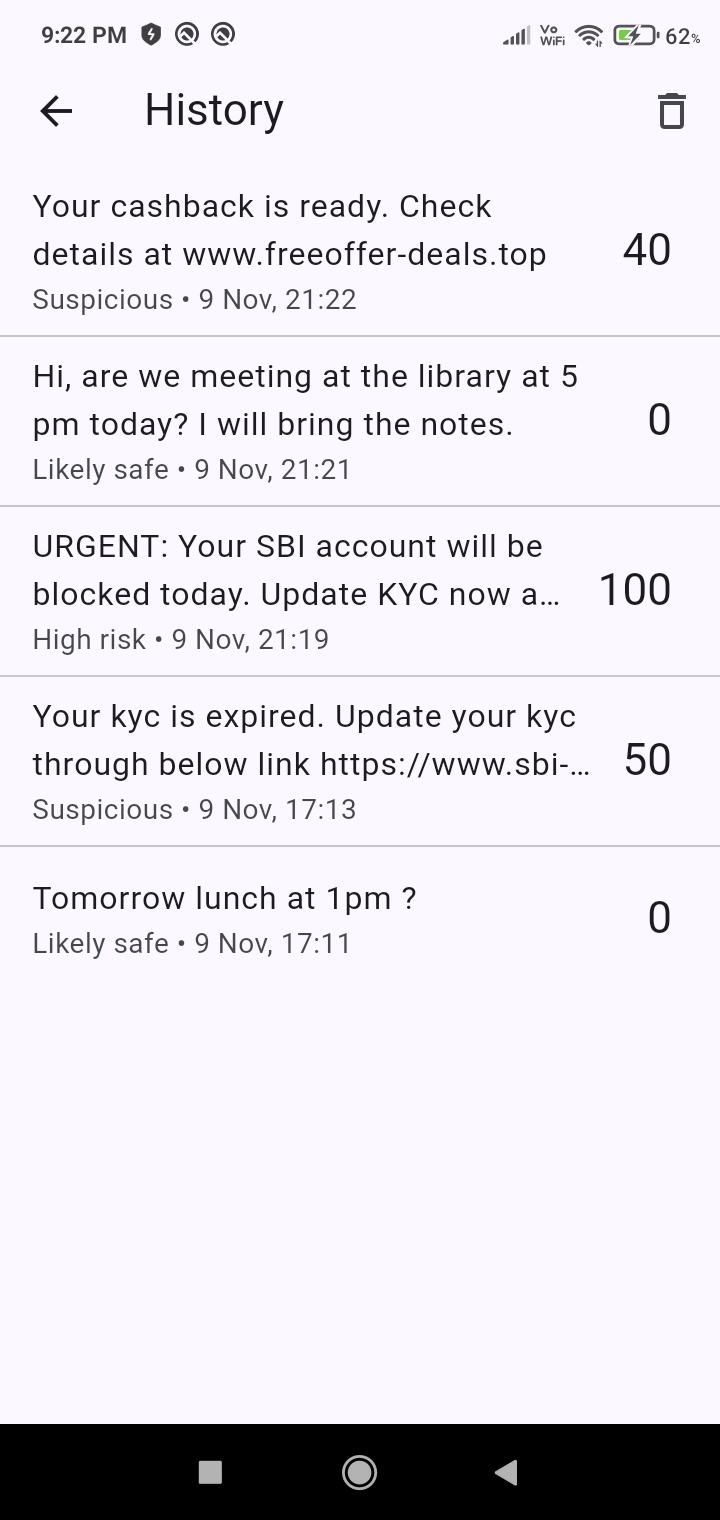
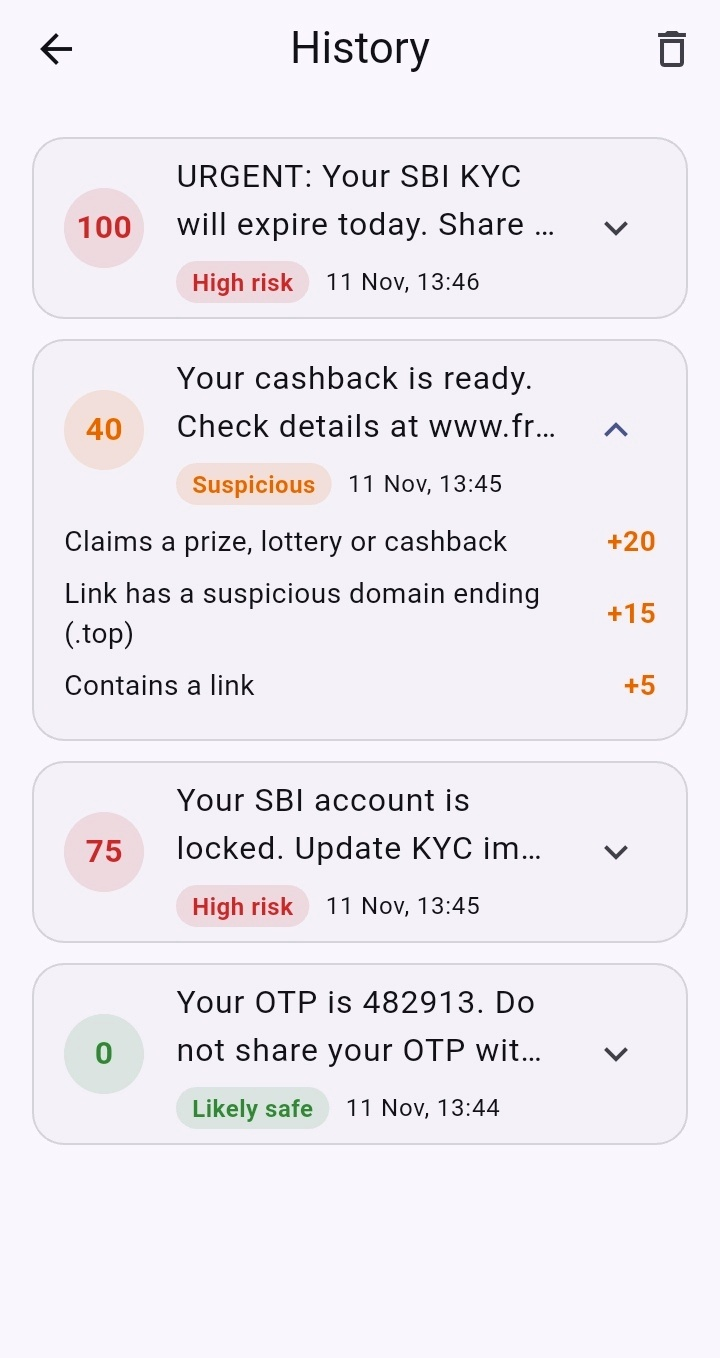
Update screenshots and README for the new UI

diff --git a/README.md b/README.md
@@ -20,13 +20,25 @@ All messages shown are fake examples written for testing.
 
 <p align="center">
   <img src="docs/screenshots/home.jpeg" width="160" alt="Home screen with a pasted fake scam message">
-  <img src="docs/screenshots/result_high.jpeg" width="160" alt="High risk result, score 100">
-  <img src="docs/screenshots/result_suspicious.jpeg" width="160" alt="Suspicious result, score 40">
-  <img src="docs/screenshots/result_safe.jpeg" width="160" alt="Likely safe result, score 0">
+  <img src="docs/screenshots/homescreen_extended.jpeg" width="160" alt="Home screen scrolled down, showing the example chips and what the app checks">
+  <img src="docs/screenshots/result_risk.jpeg" width="160" alt="High risk result with the score ring and the reasons">
+  <img src="docs/screenshots/result_safe.jpeg" width="160" alt="Likely safe result">
   <img src="docs/screenshots/history.jpeg" width="160" alt="Scan history list">
 </p>
 
-From left to right: home, high risk, suspicious, likely safe, history.
+From left to right: home, home scrolled down, high risk result, likely safe
+result, history.
+
+## Features
+
+- Paste a message or link, or tap **Paste** to read your clipboard. The
+  clipboard is read only when you tap the button.
+- Tap a **fake example** chip to try the app without typing.
+- Result screen with an animated score ring, a verdict, every reason with its
+  points, and next steps (helpline **1930**, **cybercrime.gov.in**).
+- A warning when one of the checks could not run, so a crash never looks like
+  "safe".
+- Scan history with a delete-all button. Tap an entry to see its reasons.
 
 ## How the score works
 
@@ -51,19 +63,27 @@ are shown from the biggest contribution to the smallest.
 
 ### Message text rules
 
-| Rule                                  | Points | Example trigger (fake)            |
-| ------------------------------------- | ------ | --------------------------------- |
-| Asks for OTP, PIN, CVV or password    | +25    | "share otp", "your upi pin"       |
-| Creates urgency or threatens you      | +15    | "urgent", "suspended", "blocked"  |
-| Claims a prize, lottery or cashback   | +20    | "you have won", "lucky draw"      |
-| KYC or account verification request   | +20    | "update kyc", "kyc pending"       |
-| UPI collect / money request           | +20    | "collect request", "send rs"      |
-| Legal / arrest threat                 | +20    | "arrest warrant", "court notice"  |
-| Asks you to call a number             | +10    | "call this number"                |
-| Contains a link                       | +5     | "http://..." or "www...."         |
+| Rule                                  | Points | Example trigger (fake)                    |
+| ------------------------------------- | ------ | ----------------------------------------- |
+| Asks for OTP, PIN, CVV or password    | +25    | "share otp", "your upi pin"               |
+| Creates urgency or threatens you      | +15    | "urgent", "suspended", "will expire"      |
+| Claims a prize, lottery or cashback   | +20    | "you have won", "lucky draw"              |
+| KYC or account verification request   | +20    | "update kyc", "kyc expired"               |
+| UPI collect / money request           | +20    | "collect request", "pay 1000", "send rs 500" |
+| Legal / arrest threat                 | +20    | "arrest warrant", "court notice"          |
+| Asks you to call a number             | +10    | "call this number"                        |
+| Contains a link                       | +5     | "http://..." or "www...."                 |
 
-Warnings such as "do not share your OTP" are excluded from the OTP rule, so
-genuine bank reminders are not flagged.
+How some rules avoid false alarms:
+
+- Warnings such as "do not share your OTP" are excluded from the OTP rule, so
+  genuine bank reminders are not flagged.
+- The urgency rule matches phrases ("will expire", "has expired", "is expired"),
+  not the bare word "expired", so "meeting invite expired" is not flagged.
+- The money rule matches `pay`, `send` or `transfer` followed by an amount, with
+  or without "Rs". A promise directly before the verb ("I will pay Rs 500") is
+  ignored.
+- "Your KYC expired" is counted once (as a KYC request), not twice.
 
 ### Link rules
 
@@ -85,12 +105,15 @@ the points.
 | Link starts with `http://` (not HTTPS)                        | +10    |
 | Link is longer than 75 characters                             | +5     |
 
-**Look-alike detection.** The app compares the link's main domain with a small
-list of official domains using the Levenshtein edit distance: the number of
+**Look-alike detection.** The app compares the **first label** of the link's
+main domain (for example `sbi` in `sbi.co.in`) with the same part of each
+official domain, using the Levenshtein edit distance: the number of
 single-letter changes (insert, delete, replace) needed to turn one word into
-another. A distance of 1 or 2 means "very close but not the same", for example
-`sbl.co.in` against `sbi.co.in`. The Levenshtein function is written from
-scratch, without a package.
+another. Names of 5 letters or fewer allow 1 change, longer names allow 2. So
+`sbl.co.in` is flagged as a copy of `sbi.co.in`, `hdfcbnak.com` is flagged as a
+copy of `hdfcbank.com`, and an unrelated name such as `abc.co.in` is not. The
+ending (`.com`, `.co.in`) is ignored in this comparison. The Levenshtein
+function is written from scratch, without a package.
 
 **Brands covered:** State Bank of India, HDFC Bank, ICICI Bank, Axis Bank and
 Paytm. The official domains are listed in `lib/detectors/url_rules.dart`.
@@ -99,7 +122,7 @@ Paytm. The official domains are listed in `lib/detectors/url_rules.dart`.
 
 ```mermaid
 flowchart TD
-    UI["UI screens<br/>home, result, history, about"] --> P["ScanProvider<br/>(state, Provider package)"]
+    UI["UI screens<br/>home, result, history"] --> P["ScanProvider<br/>(state, Provider package)"]
     P --> S["ScanService<br/>runs detectors, sums points, caps at 100"]
     S --> T["TextDetector"]
     S --> U["UrlDetector"]
@@ -125,7 +148,8 @@ lib/
                scan_record.dart           one saved scan
   providers/   scan_provider.dart         state shared with the screens
   ui/screens/  home, result, history screens
-test/          unit tests for detectors, utilities, service, provider, record
+test/          unit tests for detectors, utilities, service, provider,
+               record and repository
 ```
 
 ### Design decisions
@@ -142,11 +166,16 @@ test/          unit tests for detectors, utilities, service, provider, record
   `ScanService` receives a list of detectors, so a new analyzer can be added by
   writing one new class and adding it to the list. The existing detectors do not
   change.
+- **Failure isolation.** `ScanService` wraps each detector call in `try/catch`.
+  If one detector throws, the others still run, the failure is counted in
+  `DetectionResult.failedChecks`, and the Result screen shows a warning.
 - **Rules are data, logic is code.** Keywords, brands and lists live in
   `text_rules.dart` and `url_rules.dart`. Changing a rule does not touch the
   matching code.
 - **Explainable by design.** A `Finding` is a reason plus points. The score is
   only the sum of findings, so the screen can always show why.
+- **Testable database.** `AppDatabase` takes an optional path, so tests can use
+  an in-memory SQLite database while the app uses the real file.
 - **On-device only.** No message is sent anywhere.
 
 ## Privacy design
@@ -163,8 +192,13 @@ messages you are not comfortable having on your phone.
 
 ## Tests and CI
 
-- **101 unit tests** across 7 files: text detector, URL detector, domain
-  utilities, Levenshtein, scan service, scan provider and scan record.
+- **119 unit tests** across 8 files: text detector, URL detector, domain
+  utilities, Levenshtein, scan service, scan provider, scan record and scan
+  repository.
+- Repository tests run against an in-memory SQLite database
+  (`sqflite_common_ffi`, a dev-only dependency).
+- Fixed bugs were first reproduced with a failing test, and a "guard" test
+  checks that the fix did not stop real scams from being caught.
 - GitHub Actions runs `flutter analyze` and `flutter test` on every push and
   pull request to `main`, using a pinned Flutter version (3.44.9).
 - Tests use made-up messages only.
@@ -182,50 +216,71 @@ flutter test
 flutter run
 ```
 
-Run the app on a real Android device or emulator. The history screen uses
-`sqflite`, which does not work in a web browser.
+Run the app on a real Android device. The history screen uses `sqflite`, which
+does not work in a web browser.
 
 ## Known limitations
 
 This is a rule-based tool, so it is easy to fool and it makes mistakes. These
-are the problems I know about.
+are the problems I know about. Items marked "not tested" were reasoned from the
+code and are not covered by a test.
 
 **Message text rules**
 - Rules match exact phrases. Rewording (for example "update your KYC" instead of
-  "update KYC") can slip past them.
-- False positives: "pay Rs" in a friendly message, and "expired" in a normal
-  calendar note, are flagged.
+  "update KYC", or "your KYC is expired") can slip past them. "Your offer
+  expired" is also missed, because only threat phrases are matched.
+- The money rule flags any `pay`, `send` or `transfer` followed by a number, so
+  harmless messages such as "pay 500 for the pizza" are false positives.
 - The "do not share" exception looks at the whole message, so a scammer could
   add that phrase to hide a request for an OTP.
+- Single words such as "blocked" and "suspended" can cause false positives, for
+  example "road blocked" (not tested).
+- Fee-for-reward wording such as "token" or "processing fee" is not a rule. A
+  message like "Pay 1000 for token and win" is caught only by the money rule.
 - The text "contains a link" rule only sees `http://`, `https://` and `www.`,
   so bare domains are missed there.
+- Conversational scams with no link and no trigger words (a friendly
+  "wrong number" hook, a fake boss asking for a payment, a fake job offer) are
+  not detected, because there is nothing for a keyword rule to match (not
+  tested).
+- The rules and brand list are written for Indian scams. Messages that mention
+  services such as USPS, IRS or Zelle mostly score low, apart from generic words
+  such as "urgent" (not tested).
 
 **Link rules**
 - Only 5 brands are covered. The official domain lists have **not been
   independently verified in a browser**, so do not treat them as complete.
+- Look-alike detection compares only the first label of the domain, so the
+  ending is ignored. Short names can also match by chance, and a domain such as
+  `bank.sbi` has the name part `bank` (not tested).
 - Not detected: hidden IP forms such as `http://3232235777`, bare IP addresses
   without `http://`, and brand names without separators such as `sbikyc.xyz`.
 - The "no HTTPS" rule only fires when the link starts with `http://`.
-- Short domains may be flagged as a look-alike of a short brand domain. This
-  was reasoned through by hand and is not yet covered by a test.
-- A link at the end of a sentence without a space, such as `Pay now.Click here`,
-  may be read as a `.click` link (reasoned by hand, not yet tested).
-- Brand name in the path of a legitimate news page can add +30.
+- A bare token with a capital letter right after a dot (such as `now.Click`) is
+  treated as a typo, not a link. This stops `Pay now.Click here` from being read
+  as a `.click` link, but a scammer could use mixed case to avoid the link
+  rules (not tested).
+- A brand name in the path of a legitimate news page adds +30. This is a
+  documented behaviour, because a phishing page and a news page look the same
+  to this rule.
 - Domain handling covers common Indian suffixes such as `co.in`. Suffixes from
   other countries are not handled.
 - One link can be counted by both the text rule (+5) and the link rules.
 
 **Engineering**
 - The database is not encrypted.
-- No automated tests yet for the repository or the screens.
-- If a detector throws an error, the scan fails.
+- If a detector throws an error, the scan continues with the remaining checks
+  and the Result screen shows a warning. History does not record that a check
+  failed.
+- There are no automated tests for the screens (widget tests).
 - Tests that check exact totals must be updated whenever points change.
 
 ## Not built yet
 
 - Opt-in link expander that follows short links. Expanding a link contacts the
   scammer's server, so it will be off by default and clearly explained.
-- Repository tests with an in-memory database.
+- About screen and dark mode.
+- Verifying the official brand domains in a browser, and adding more brands.
 
 ## What to do if you receive a scam
 
